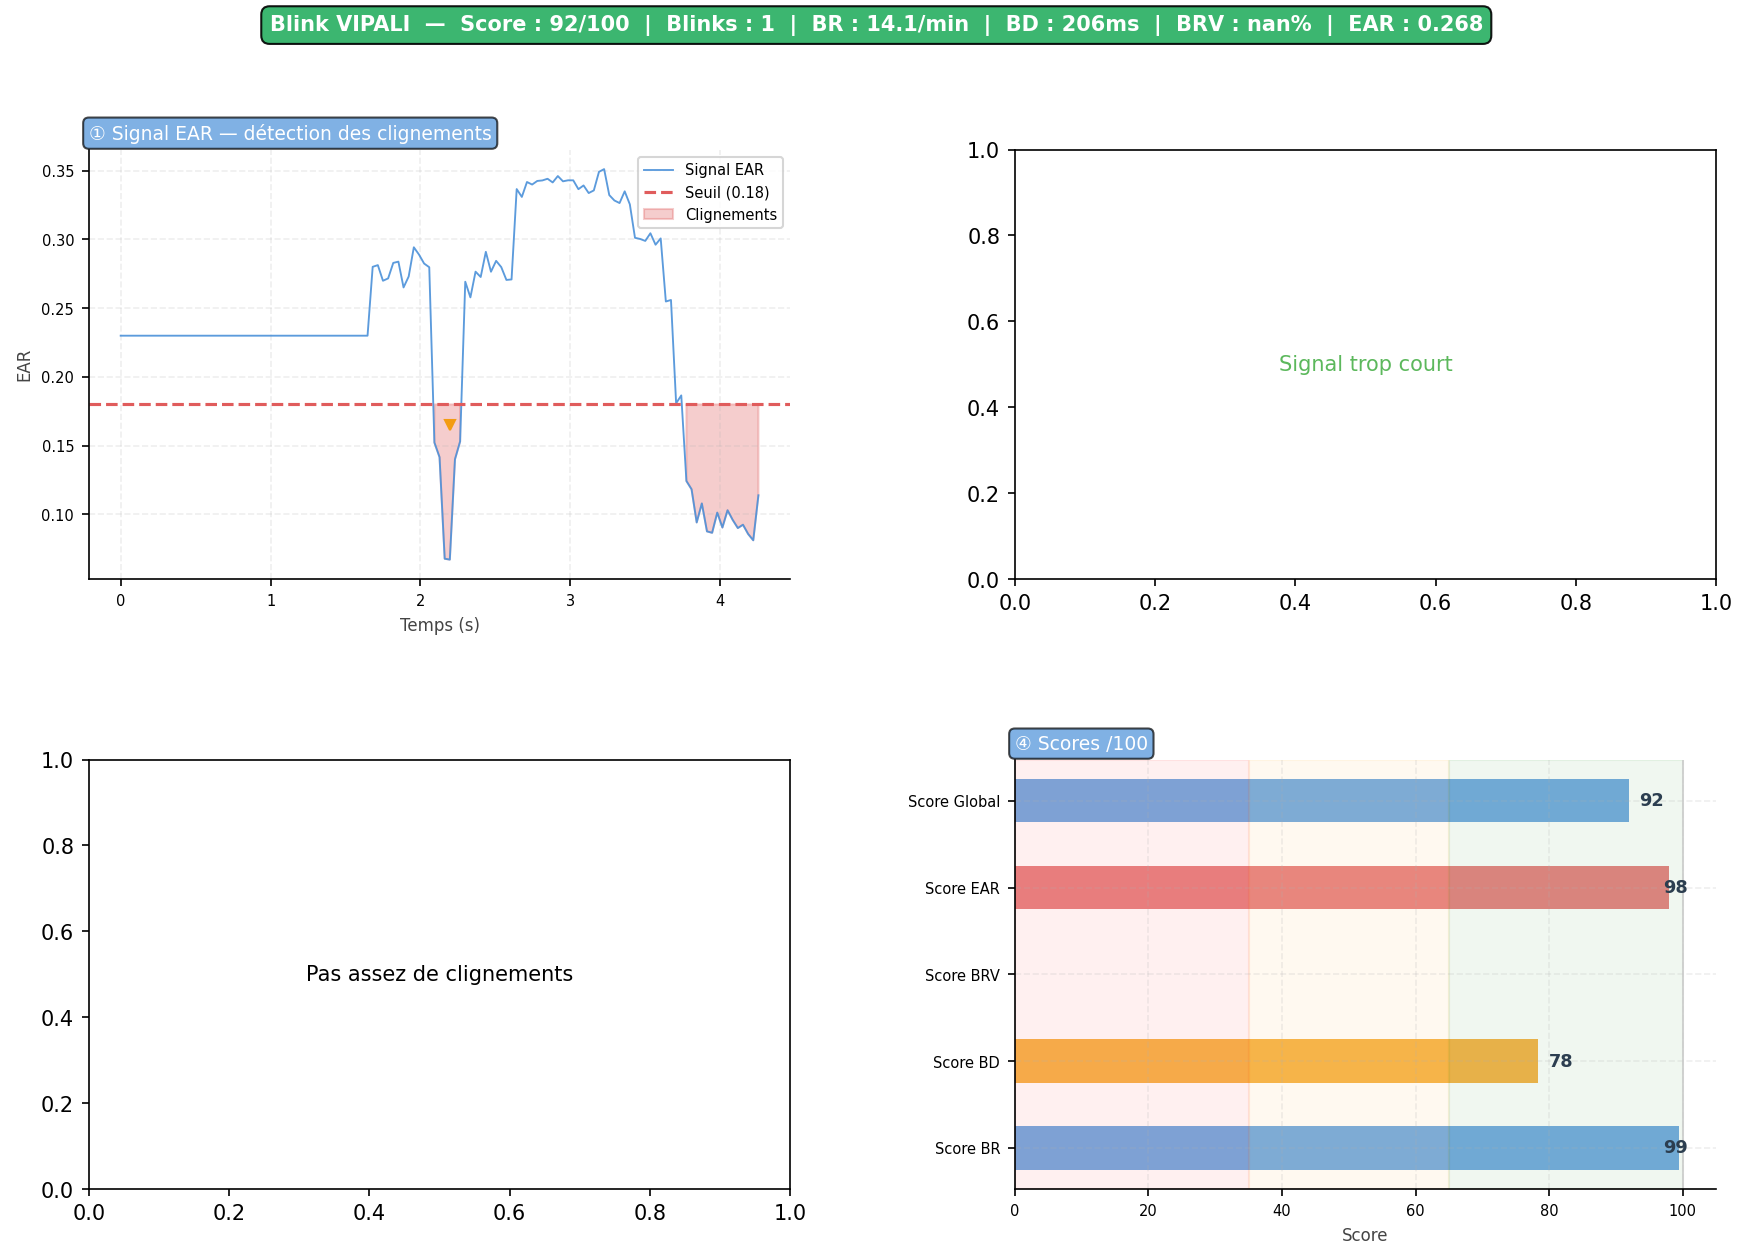
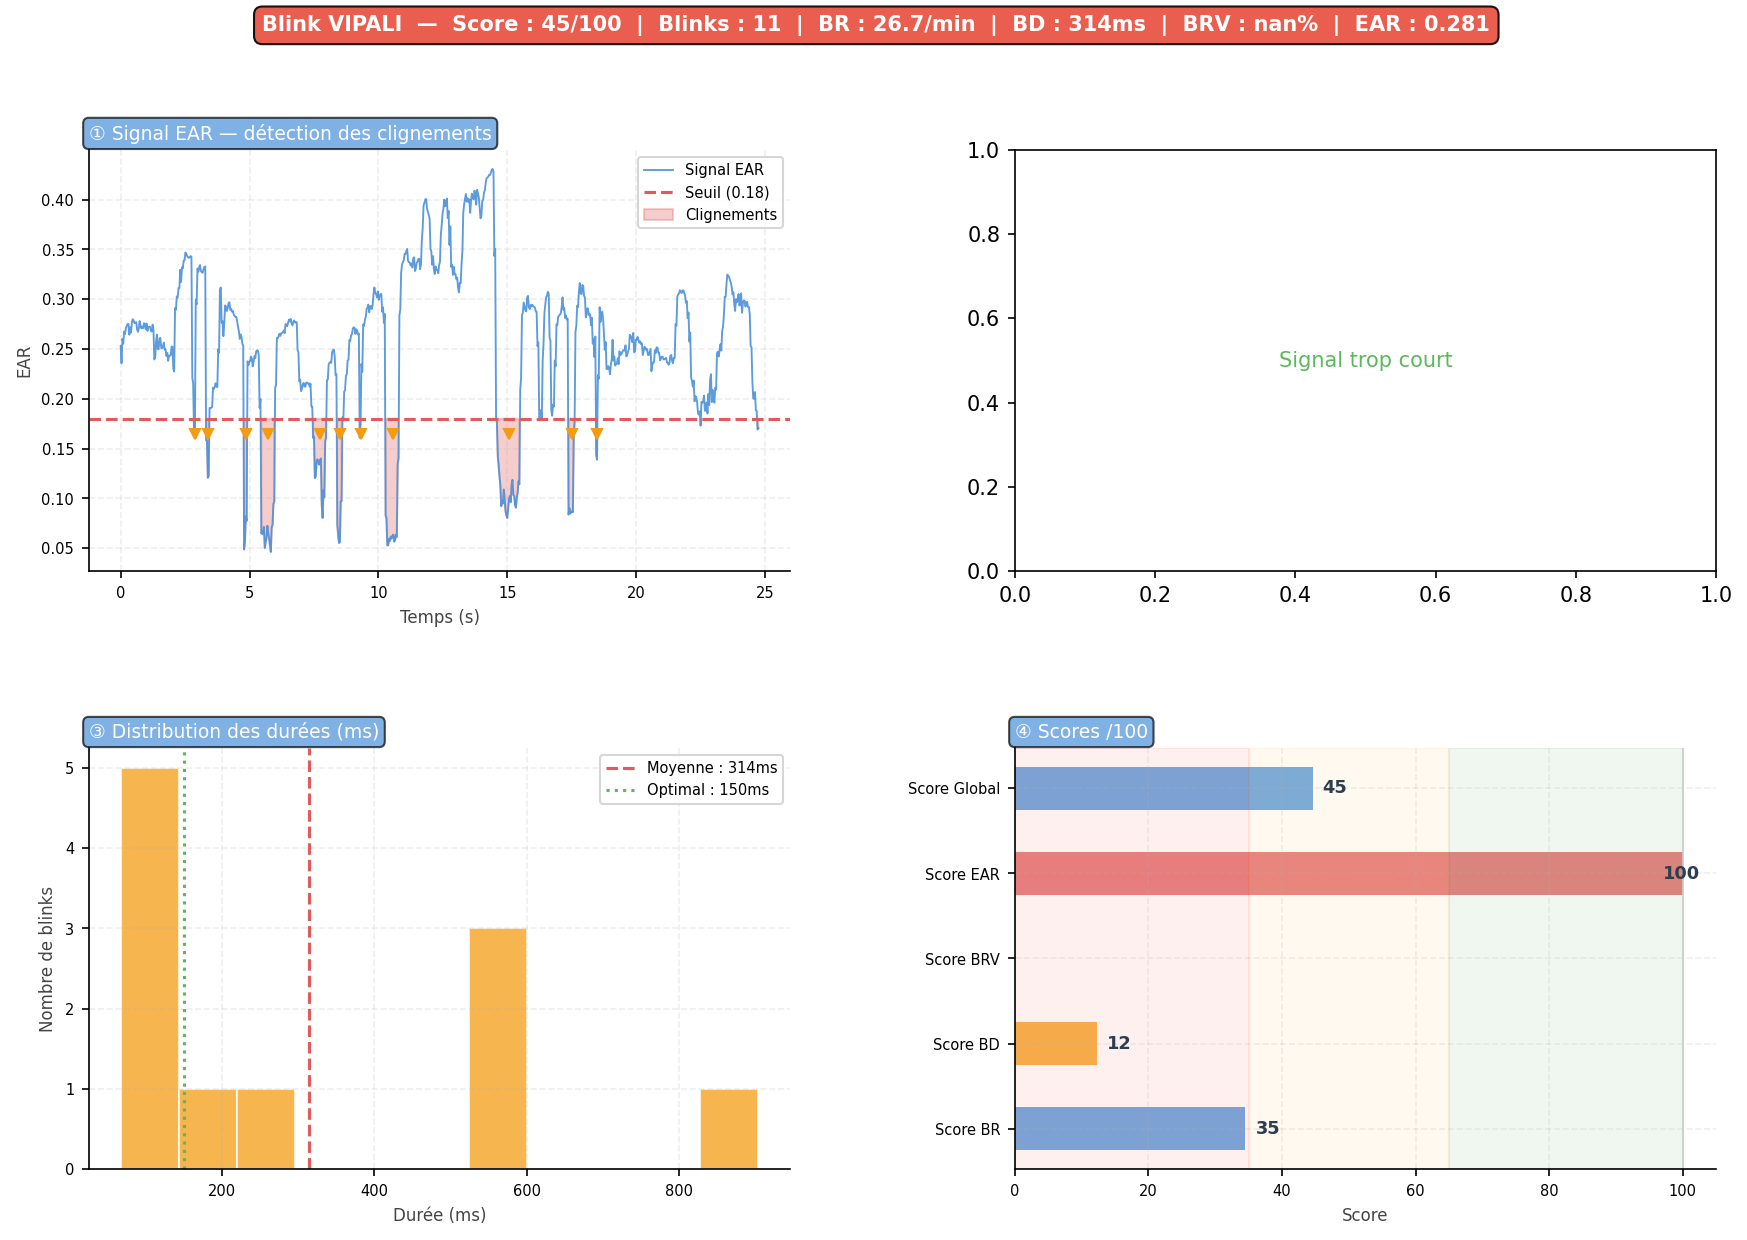
calibration

diff --git a/calibration.py b/calibration.py
@@ -1,0 +1,200 @@
+# -*- coding: utf-8 -*-
+"""
+
+@author: Restart
+"""
+
+# =============================================================================
+# calibration.py — Calibration du seuil EAR (yeux ouverts / yeux fermés)
+# =============================================================================
+# Mesure l'EAR moyen sur deux phases (yeux ouverts puis yeux fermés) et en
+# déduit un seuil personnalisé, à la place du seuil fixe config.EAR_SEUIL.
+#
+#     seuil = ear_ferme + (ear_ouvert - ear_ferme) * config.CALIBRATION_RATIO
+#
+# Utilisation typique, avant detection.analyser_source() :
+#
+#     import calibration
+#     resultat = calibration.calibrer(source=0)
+#     calibration.appliquer_calibration(resultat)   # met à jour config.EAR_SEUIL
+#
+# Le seuil est appliqué en modifiant directement config.EAR_SEUIL : comme les
+# autres modules font `import config` puis lisent `config.EAR_SEUIL` à chaque
+# appel (jamais `from config import EAR_SEUIL`), la mise à jour se propage
+# automatiquement à detection.py et metriques.py sans les modifier.
+# =============================================================================
+
+import time
+
+import cv2
+import numpy as np
+import mediapipe as mp
+
+import config
+from detection import calculer_ear_moyen
+
+
+# ── Initialisation FaceMesh dédiée ────────────────────────────────────────────
+
+def _init_facemesh():
+    """
+    Initialise une instance MediaPipe FaceMesh dédiée à la calibration.
+
+    Dupliquée depuis detection._init_facemesh() (privée) plutôt que
+    réutilisée, pour garder calibration.py indépendant de l'état interne de
+    detection.py — les deux modules ne font que partager la fonction pure
+    calculer_ear_moyen().
+    """
+    mp_face_mesh = mp.solutions.face_mesh
+    return mp_face_mesh.FaceMesh(
+        max_num_faces=1,
+        refine_landmarks=True,
+        min_detection_confidence=0.5,
+        min_tracking_confidence=0.5,
+    )
+
+
+# ── Capture d'une phase ────────────────────────────────────────────────────────
+
+def _capturer_phase(cap, face_mesh, duree_sec: float, message: str) -> float:
+    """
+    Affiche `message` en overlay et moyenne l'EAR pendant `duree_sec` secondes.
+
+    Paramètres
+    ----------
+    cap : cv2.VideoCapture
+        Capture déjà ouverte.
+    face_mesh : mediapipe.solutions.face_mesh.FaceMesh
+    duree_sec : float
+    message : str
+        Instruction affichée à l'écran pendant la phase.
+
+    Retourne
+    --------
+    float
+        EAR moyen sur la phase. np.nan si aucune frame exploitable.
+    """
+    valeurs = []
+    t_debut = time.time()
+
+    while time.time() - t_debut < duree_sec:
+        ret, frame = cap.read()
+        if not ret:
+            break
+
+        hauteur, largeur = frame.shape[:2]
+        frame_rgb = cv2.cvtColor(frame, cv2.COLOR_BGR2RGB)
+        frame_rgb.flags.writeable = False
+        resultats = face_mesh.process(frame_rgb)
+        frame_rgb.flags.writeable = True
+
+        if resultats.multi_face_landmarks:
+            landmarks = resultats.multi_face_landmarks[0].landmark
+            ear = calculer_ear_moyen(landmarks, largeur, hauteur)
+            valeurs.append(ear)
+
+        temps_restant = max(duree_sec - (time.time() - t_debut), 0.0)
+        cv2.rectangle(frame, (0, 0), (largeur, 90), (20, 20, 30), -1)
+        cv2.putText(frame, message, (15, 35),
+                    cv2.FONT_HERSHEY_SIMPLEX, 0.75, (255, 255, 255), 2)
+        cv2.putText(frame, f"{temps_restant:.1f}s restantes",
+                    (15, 70), cv2.FONT_HERSHEY_SIMPLEX, 0.6, (0, 200, 255), 1)
+
+        cv2.imshow("Calibration Blink VIPALI", frame)
+        if cv2.waitKey(1) & 0xFF == ord('q'):
+            break
+
+    if len(valeurs) == 0:
+        return float("nan")
+    return float(np.mean(valeurs))
+
+
+# ── Pipeline complet ────────────────────────────────────────────────────────────
+
+def calibrer(source=0, duree_phase_sec: float = None) -> dict:
+    """
+    Pipeline complet de calibration : phase yeux ouverts puis yeux fermés.
+
+    Paramètres
+    ----------
+    source : str | int
+        Chemin vidéo ou index caméra (identique à detection.analyser_source()).
+    duree_phase_sec : float | None
+        Durée de chaque phase en secondes. Si None, utilise
+        config.CALIBRATION_DUREE_SEC.
+
+    Retourne
+    --------
+    dict avec les clés :
+        ear_ouvert : float — EAR moyen yeux ouverts
+        ear_ferme  : float — EAR moyen yeux fermés
+        ecart      : float — ear_ouvert - ear_ferme
+        seuil      : float — seuil calculé (ou config.EAR_SEUIL si peu fiable)
+        fiable     : bool  — True si l'écart dépasse config.CALIBRATION_ECART_MIN
+    """
+    duree = duree_phase_sec if duree_phase_sec is not None else config.CALIBRATION_DUREE_SEC
+
+    cap = cv2.VideoCapture(source)
+    if not cap.isOpened():
+        raise RuntimeError(f"[ERREUR] Impossible d'ouvrir la source : {source}")
+
+    face_mesh = _init_facemesh()
+
+    print("\n── Calibration ──────────────────────────────────────────────────")
+    print("[INFO] Phase 1/2 : yeux ouverts")
+    ear_ouvert = _capturer_phase(
+        cap, face_mesh, duree, "Regarde la camera, yeux bien ouverts"
+    )
+    print(f"[INFO] EAR yeux ouverts : {ear_ouvert:.4f}")
+
+    print("[INFO] Phase 2/2 : yeux fermes")
+    ear_ferme = _capturer_phase(
+        cap, face_mesh, duree, "Ferme les yeux et garde-les fermes"
+    )
+    print(f"[INFO] EAR yeux fermes  : {ear_ferme:.4f}")
+
+    cap.release()
+    cv2.destroyAllWindows()
+    face_mesh.close()
+
+    ecart = ear_ouvert - ear_ferme
+    fiable = (not np.isnan(ecart)) and ecart >= config.CALIBRATION_ECART_MIN
+
+    if fiable:
+        seuil = ear_ferme + ecart * config.CALIBRATION_RATIO
+    else:
+        seuil = config.EAR_SEUIL
+        print(f"[AVERTISSEMENT] Ecart trop faible ({ecart:.4f}) — "
+              f"seuil par defaut conserve ({config.EAR_SEUIL}).")
+
+    print(f"[INFO] Seuil calibre : {seuil:.4f}  (fiable={fiable})")
+    print("─────────────────────────────────────────────────────────────────\n")
+
+    return {
+        "ear_ouvert": ear_ouvert,
+        "ear_ferme": ear_ferme,
+        "ecart": ecart,
+        "seuil": seuil,
+        "fiable": fiable,
+    }
+
+
+def appliquer_calibration(resultat: dict) -> None:
+    """
+    Applique le seuil calculé à config.EAR_SEUIL, si la calibration est fiable.
+
+    Modifie config.EAR_SEUIL en place : comme detection.py et metriques.py
+    font `import config` puis lisent `config.EAR_SEUIL` (jamais
+    `from config import EAR_SEUIL`), la nouvelle valeur est prise en compte
+    automatiquement dans le reste du pipeline, sans modifier ces fichiers.
+
+    Paramètres
+    ----------
+    resultat : dict
+        Dict retourné par calibrer().
+    """
+    if resultat["fiable"]:
+        config.EAR_SEUIL = resultat["seuil"]
+        print(f"[INFO] config.EAR_SEUIL mis a jour : {config.EAR_SEUIL:.4f}")
+    else:
+        print("[INFO] Seuil par defaut conserve (calibration non fiable).")

diff --git a/run.py b/run.py
@@ -5,6 +5,13 @@ Created on Wed Jul  1 11:26:40 2026
 @author: Restart
 """
 
+# -*- coding: utf-8 -*-
+"""
+Created on Wed Jul  1 11:26:40 2026
+
+@author: Restart
+"""
+
 # =============================================================================
 # run.py — Lanceur Spyder / console IPython
 # =============================================================================
@@ -12,6 +19,7 @@ Created on Wed Jul  1 11:26:40 2026
 #   runfile('C:/chemin/vers/blink_vipali/run.py')
 # =============================================================================
 
+import calibration
 import detection
 import metriques
 import visualisation
@@ -21,6 +29,19 @@ import visualisation
 MODE   = "camera"                        # "video" ou "camera"
 VIDEO  = r"C:\chemin\vers\video.mp4"    # ignoré si MODE = "camera"
 DUREE  = 90.0                            # secondes, ignoré si MODE = "video"
+
+CALIBRER = True                          # False pour sauter la calibration
+                                          # et garder config.EAR_SEUIL tel quel
+
+# ── 0. Calibration (yeux ouverts / yeux fermés) ───────────────────────────────
+# N'a de sens qu'en caméra live (on demande d'ouvrir/fermer les yeux) —
+# ignorée automatiquement en mode "video".
+
+if CALIBRER and MODE == "camera":
+    resultat_calibration = calibration.calibrer(source=0)
+    calibration.appliquer_calibration(resultat_calibration)
+elif CALIBRER and MODE == "video":
+    print("[INFO] Calibration ignorée en mode 'video' (seuil par défaut conservé).")
 
 # ── 1. Détection ──────────────────────────────────────────────────────────────
 

diff --git a/config.py b/config.py
@@ -101,6 +101,21 @@ DETECTION_RATE_MIN = 0.80   # < 80% de frames détectées → mesure rejetée
 N_BLINKS_MIN = 5
 
 
+# ── Calibration ────────────────────────────────────────────────────────────────
+
+# Durée de chaque phase de calibration (yeux ouverts / yeux fermés), en secondes
+CALIBRATION_DUREE_SEC = 5.0
+
+# Position du seuil entre EAR fermé et EAR ouvert.
+# 0.0 → seuil = EAR fermé   |   1.0 → seuil = EAR ouvert   |   0.5 → à mi-chemin
+CALIBRATION_RATIO = 0.5
+
+# Écart minimum (EAR ouvert - EAR fermé) pour considérer la calibration fiable.
+# En dessous, on garde EAR_SEUIL par défaut (mauvais éclairage, visage mal
+# détecté, occlusion des yeux, etc.)
+CALIBRATION_ECART_MIN = 0.04
+
+
 # ── Visualisation ─────────────────────────────────────────────────────────────
 
 COULEUR_EAR      = "#4A90D9"   # bleu
